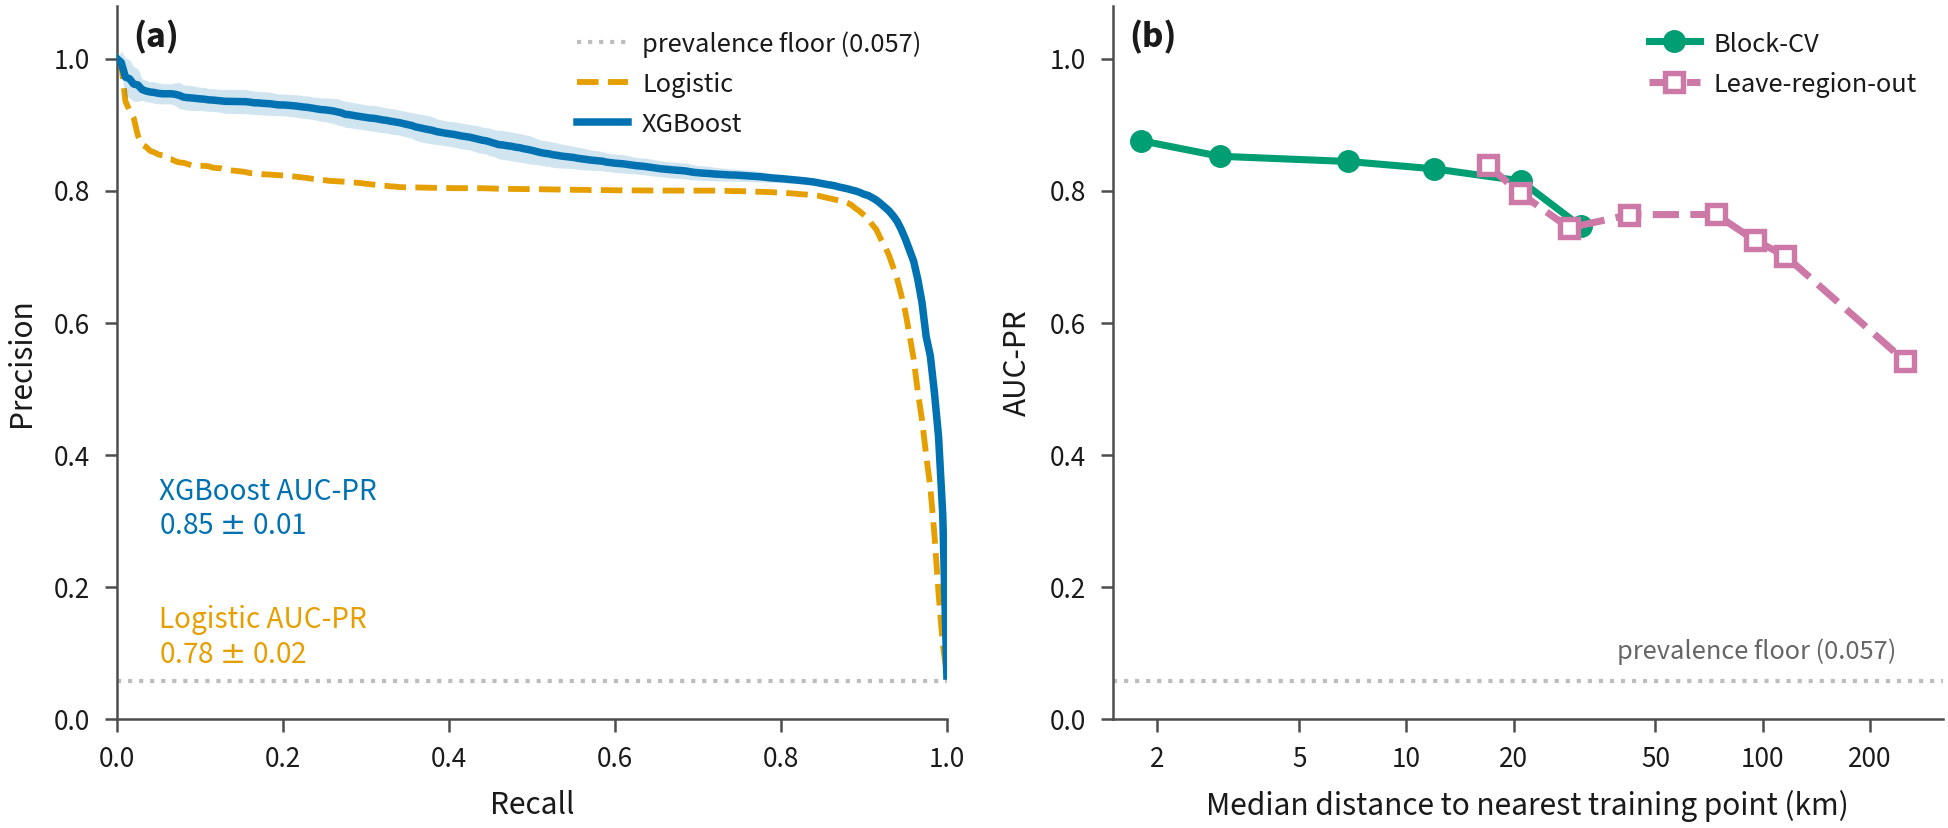
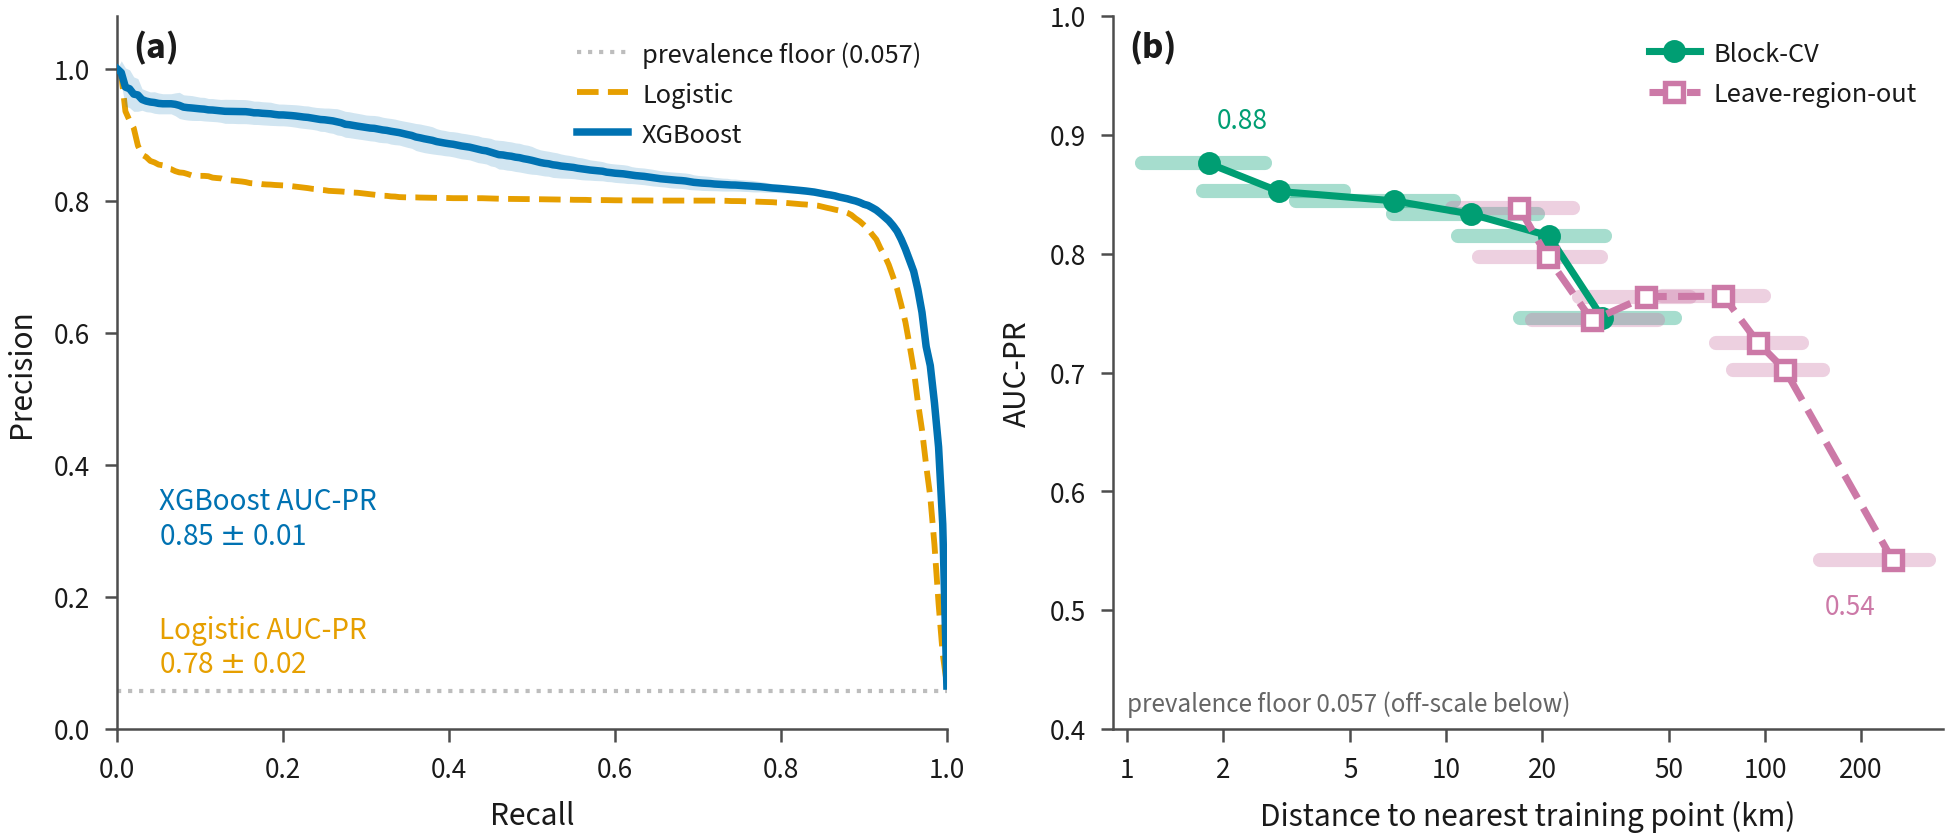
Restore distance-IQR spread in Fig 4b as colored strips

diff --git a/output/fig04_spatial_performance.py b/output/fig04_spatial_performance.py
@@ -79,12 +79,28 @@ def panel_b_distance(ax, d):
     """Skill vs distance-to-training: block-CV and region-out on one axis, two hues."""
     floor = float(d["prevalence"])
     bd, ba = d["block_dist"], d["block_ap"]
+    bq25, bq75 = d["block_q25"], d["block_q75"]
     rd, ra = d["region_dist"], d["region_ap"]
+    rq25, rq75 = d["region_q25"], d["region_q75"]
 
-    ax.axhline(floor, color=figstyle.OTHER_GRAY, linestyle=":", linewidth=1.0, zorder=1)
-    ax.annotate(f"prevalence floor ({floor:.3f})", xy=(rd.max(), floor),
-                xytext=(-2, 4), textcoords="offset points", ha="right", va="bottom",
-                fontsize=6.8, color=figstyle.MUTED)
+    # Each marker is the MEDIAN nearest-train distance a configuration spans; the strip is
+    # its 25-75th percentile. The AUC-PR is pooled over that whole spread, not read at a
+    # point, so the strip keeps the reader from misreading a dot as an exact coordinate.
+    # Strips also show the TRUE method overlap (block's coarse tiles reach into region's
+    # fine clusters) that a median-only band understates. Same hue as the series, behind.
+    for x0, y0, lo, hi in zip(bd, ba, bq25, bq75):
+        ax.plot([lo, hi], [y0, y0], color=BLOCK_COLOR, linewidth=3.4, alpha=0.35,
+                solid_capstyle="round", zorder=2)
+    for x0, y0, lo, hi in zip(rd, ra, rq25, rq75):
+        ax.plot([lo, hi], [y0, y0], color=REGION_COLOR, linewidth=3.4, alpha=0.35,
+                solid_capstyle="round", zorder=2)
+
+    # y is zoomed to the data band (skill never approaches the floor), so the floor
+    # sits off-scale and is noted rather than drawn.
+    ax.annotate(f"prevalence floor {floor:.3f} (off-scale below)", xy=(1.0, 0.005),
+                xycoords=("data", "axes fraction"), xytext=(0, 2),
+                textcoords="offset points", ha="left", va="bottom",
+                fontsize=6.5, color=figstyle.MUTED)
 
     # Same operative XGBoost under two holdout geometries — split by hue AND marker.
     ax.plot(bd, ba, color=BLOCK_COLOR, linestyle="-", linewidth=1.7, marker="o",
@@ -93,14 +109,24 @@ def panel_b_distance(ax, d):
             markersize=4.2, markerfacecolor="white", markeredgecolor=REGION_COLOR,
             markeredgewidth=1.3, zorder=4, label="Leave-region-out")
 
+    # Anchor the story at its two ends: near-field skill and the extrapolation floor.
+    i_near = int(np.argmin(bd))
+    ax.annotate(f"{ba[i_near]:.2f}", xy=(bd[i_near], ba[i_near]), xytext=(2, 7),
+                textcoords="offset points", ha="left", va="bottom",
+                fontsize=7.0, color=BLOCK_COLOR)
+    i_far = int(np.argmax(rd))
+    ax.annotate(f"{ra[i_far]:.2f}", xy=(rd[i_far], ra[i_far]), xytext=(-4, -8),
+                textcoords="offset points", ha="right", va="top",
+                fontsize=7.0, color=REGION_COLOR)
+
     ax.set_xscale("log")
-    ax.set_xlim(1.5, 320)
-    ax.set_xticks([2, 5, 10, 20, 50, 100, 200])
-    ax.set_xticklabels(["2", "5", "10", "20", "50", "100", "200"])
+    ax.set_xlim(0.9, 360)
+    ax.set_xticks([1, 2, 5, 10, 20, 50, 100, 200])
+    ax.set_xticklabels(["1", "2", "5", "10", "20", "50", "100", "200"])
     ax.tick_params(axis="x", which="minor", length=0)
-    ax.set_ylim(0, 1.08)
-    ax.set_yticks([0, 0.2, 0.4, 0.6, 0.8, 1.0])
-    ax.set_xlabel("Median distance to nearest training point (km)")
+    ax.set_ylim(0.4, 1.0)
+    ax.set_yticks([0.4, 0.5, 0.6, 0.7, 0.8, 0.9, 1.0])
+    ax.set_xlabel("Distance to nearest training point (km)")
     ax.set_ylabel("AUC-PR")
     ax.legend(loc="upper right", fontsize=6.8, frameon=False, handlelength=1.8,
               borderaxespad=0.4)
